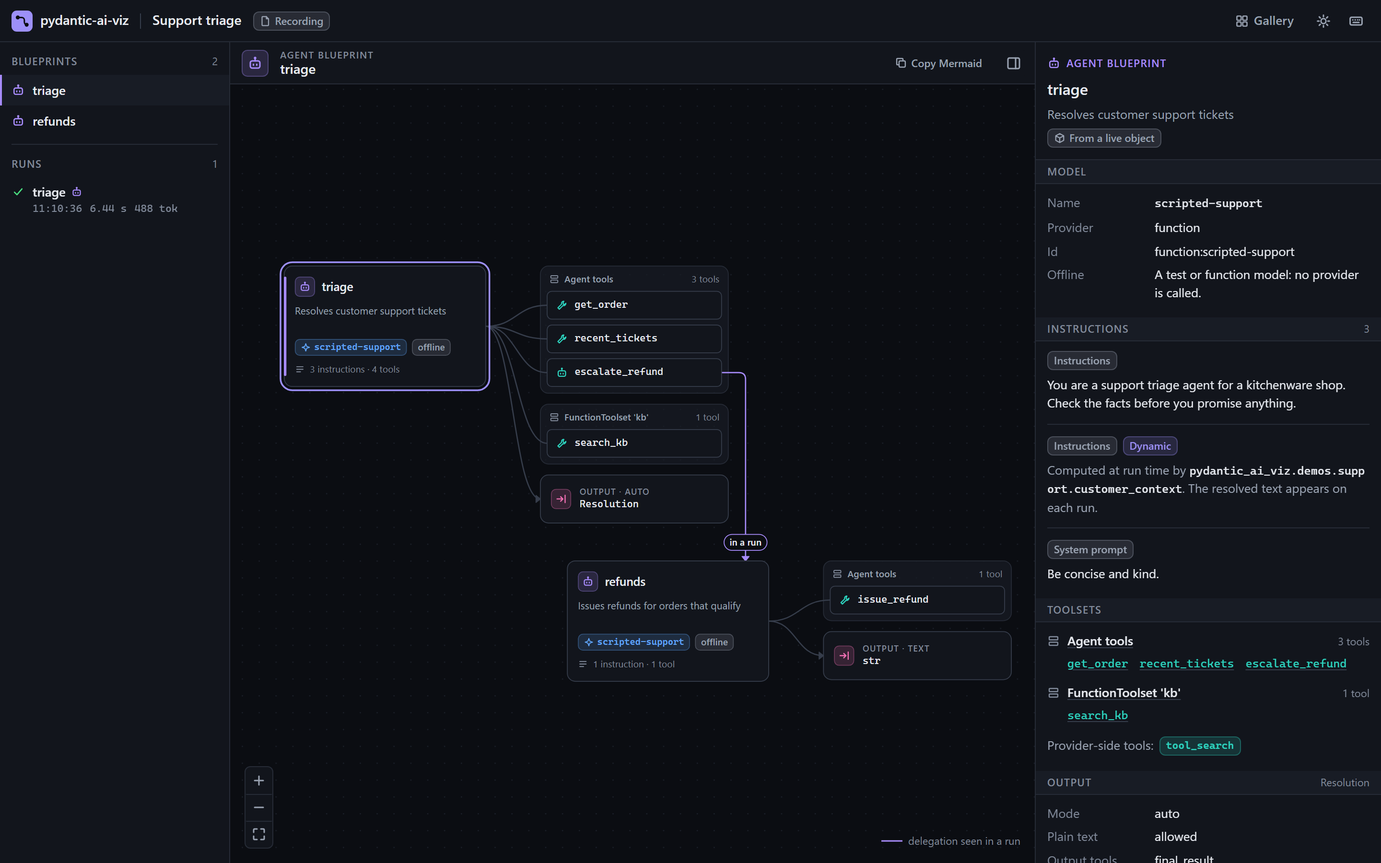
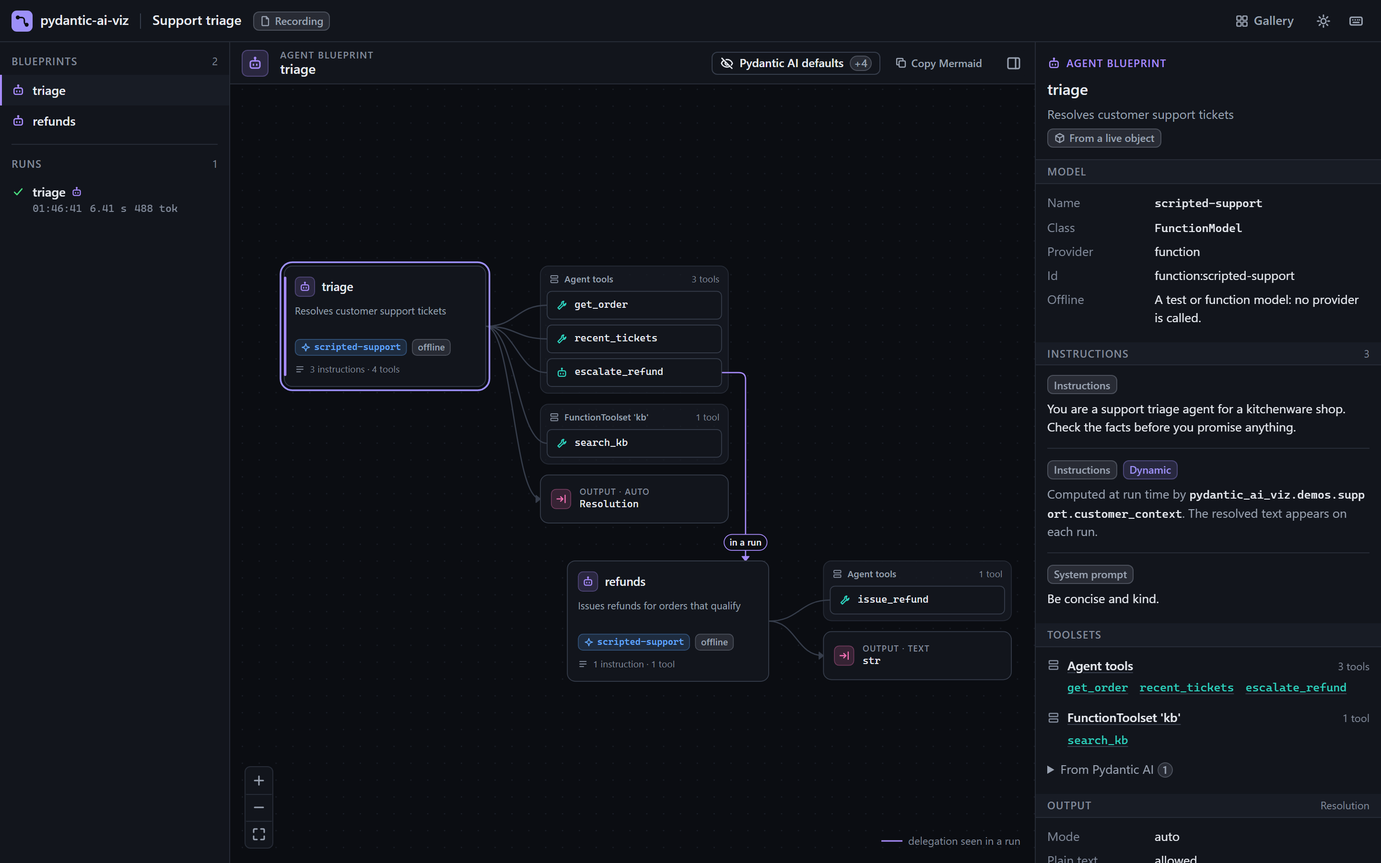
docs: document skills, the defaults toggle and refresh screenshots

diff --git a/docs/reference/wire-format.md b/docs/reference/wire-format.md
@@ -118,6 +118,7 @@ type AgentBlueprint = {
     tool_retries: number | null;
     output_retries: number | null;
     tool_timeout: number | null;
+    defaults: string[];        // of end_strategy, tool_retries, output_retries and tool_timeout: those whose value is what an Agent() has by default (live only; [] from source)
     expressions: { [k: string]: string };  // settings computed at run time: name -> source text
   };
   delegates: { tool_name: string; agent_id: string; evidence: Provenance }[];
@@ -144,6 +145,18 @@ type Capability = {
   expressions: { [k: string]: string }; // parameters the source computes at run time: name -> source text (static analysis only)
   toolsets: string[];          // Toolset.id of the toolsets it gives the agent
   native_tools: string[];      // provider-side tool kinds it gives the agent, for example "web_search"
+  capability_id: string | null; // the id Pydantic AI knows it by (what load_capability takes); from source only a literal id=
+  stack: string | null;        // the harness stack ("Coder", "Researcher") that put it on the agent; live only, null from source
+  skills: SkillInfo[];         // the skills of a harness Skills capability, in catalog order; [] for every other capability
+};
+
+type SkillInfo = {
+  name: string;                // the name of its frontmatter, or its directory's name: the id load_capability takes
+  description: string;
+  when_to_use: string | null;
+  model_invocable: boolean;    // false with `disable-model-invocation: true`: left out of the model's catalog
+  path: string;                // its SKILL.md, forward slashes, relative to the workspace it was read from (live) or the analysed root (source); never absolute
+  body: string;                // the Markdown after the frontmatter, as written (rule 5 applies)
 };
 
 type Instruction = {
@@ -226,15 +239,26 @@ A capability's `category` is the group it is listed in by the [Pydantic AI capab
 
 - **Matching** is by package (`pydantic_ai` or `pydantic_ai_harness`) together with the class name. The harness is never imported, so a project class that happens to be called `Memory` or `Shell` is not taken for the harness one. A subclass takes the category of its Pydantic AI or harness base. A class of either package that is not listed is `"custom"`.
 - **`package`** names the package of the class itself, so an unlisted harness class is `"custom"` with package `"pydantic_ai_harness"`, and a project subclass of `MCP` has the category of `MCP` and no package.
-- **`details`** holds values only: strings, numbers, booleans, lists of those, or objects of those. A parameter left at its default, a `null` or empty value, `id` and `defer_loading` are left out. A parameter whose name contains `secret`, `passw`, `credential`, `cookie` or `bearer`, ends in `token`, `auth`, `authorization`, `header`, `headers` or `apikey`, ends in `key` as a word (`api_key`), or has `env`, `header`, `headers` or `authorization` as a word, is never written; `max_tokens`, `authority` and `environment` are. A positional argument of a class whose parameter names are not known is not written either, and is named in `warnings`. A URL is written without user info, query and fragment.
+- **`details`** holds values only: strings, numbers, booleans, lists of those, or objects of those. A live capability of Pydantic AI or the harness lists no value the class fills in itself, such as the `denied_commands` of a `Shell()`; a parameter the class requires is always listed. A plain `Capability(instructions=...)` shows them as a string, or a list when it has several, with a function by its qualified name. A workspace given to a capability is shown as its class name, never a path. strings, numbers, booleans, lists of those, or objects of those. A parameter left at its default, a `null` or empty value, `id` and `defer_loading` are left out. A parameter whose name contains `secret`, `passw`, `credential`, `cookie` or `bearer`, ends in `token`, `auth`, `authorization`, `header`, `headers` or `apikey`, ends in `key` as a word (`api_key`), or has `env`, `header`, `headers` or `authorization` as a word, is never written; `max_tokens`, `authority` and `environment` are. A positional argument of a class whose parameter names are not known is not written either, and is named in `warnings`. A URL is written without user info, query and fragment.
 - **`expressions`** is filled by static analysis only: an argument that is not a literal, as source text on one line cut at 200 characters.
 - **`toolsets`** holds ids of the blueprint's own `toolsets`. **`native_tools`** holds kinds.
 - **`deferred`** is `true` for `defer_loading=True`. From source, only a literal `True` counts; any other value is in `expressions`.
 - **The two ways of reading differ.**
-    - A live agent shows a harness stack such as `Coder` or `Researcher` as one capability of category `"harness"` (with no details, toolsets or native tools) next to the capabilities it is made of, because Pydantic AI merges a combined capability into the agent's own and the stack is found by a marker it leaves behind. The stack's helper capabilities are left out: its private classes, and the plain `Capability` that holds a `Researcher`'s instructions. A `Researcher` with an overflow store of its own leaves no marker, so it is not listed.
+    - A live agent shows a harness stack such as `Coder` or `Researcher` as one capability of category `"harness"` (with no details or native tools; its toolsets are those of its helpers, such as the empty `researcher_instructions` one) next to the capabilities it is made of, because Pydantic AI merges a combined capability into the agent's own and the stack is found by a marker it leaves behind. The stack's helper capabilities are left out: its private classes, and the plain `Capability` that holds a `Researcher`'s instructions. A `Researcher` with an overflow store of its own leaves no marker, so it is not listed.
     - Source code shows `CombinedCapability([...])` as the capabilities in it, to a depth of four, except one given a literal `defer_loading=True`, which stays one deferred capability, as on a live agent. One given a computed `defer_loading=` stays one capability too, not deferred, with the expression in `expressions`: the agent keeps it whole when the value is true. A capability kept whole lists what it holds by class name in `details.capabilities`, as a live agent does, never as source text, and has the toolsets and native tools of what it holds. A list the source computes stays one capability, with a warning.
-    - From source, `WebSearch` and `WebFetch` given `local=` give the toolset of that function or, for `local=True`, of the tool of the installed Pydantic AI. A harness capability that gives a toolset (`FileSystem`, `Shell`, `Memory`, `Planning`, `ToolOutputLimits`, `PydanticAIDocs`, `PruneToolResults`, `CapabilityCreation`) gives one `opaque` toolset with no tools, since the tools depend on its arguments; a live agent lists them. A `FileSystem` given a literal `read_only=True` has the `FilteredToolset` wrapper a live one has. `X.from_spec(...)` reads as `X(...)`.
+    - From source, `WebSearch` and `WebFetch` given `local=` give the toolset of that function or, for `local=True`, of the tool of the installed Pydantic AI. A harness capability that gives a toolset (`FileSystem`, `Shell`, `Memory`, `Planning`, `ToolOutputLimits`, `PydanticAIDocs`, `PruneToolResults`, `CapabilityCreation`) gives one `opaque` toolset with no tools, since the tools depend on its arguments; a live agent lists them. So do `SubAgents` given `agents=` or `agent_folders=` (toolset id `sub_agents`, or its `id=`), `AskUser` (`ask_user`, or its `id=`), `Advisor` (`advisor`, with a `PreparedToolset` wrapper) and `Skills` given a literal `read_files=True` (`skills`). A `FileSystem` given a literal `read_only=True` has the `FilteredToolset` wrapper a live one has. `X.from_spec(...)` reads as `X(...)`.
     - A live `Hooks` shows no details.
+    - The arguments of a harness capability given by position are named from the harness's own signatures when the class is known to come from `pydantic_ai_harness`: `Skills(directories)`, `SubAgents(agents, models, agent_folders)`, `Advisor(model)`, `CapabilityCreation(directory, guidance)`, `RepoContext(workspace_dir, home_dir, filenames)`, `Peers(network)` and `Memory(store, store_resolver, agent_name, namespace)`. A value that cannot be shown, such as a store object, is still left out.
+    - From source, two capabilities of one class that Pydantic AI would merge into one are shown as one: those with the same literal `id=`, or, with no `id=`, a Pydantic AI class whose installed source declares a literal default `id` (`WebSearch()` twice). They are merged by Pydantic AI's rules: a value only one states survives, lists and dicts are joined with the later winning, any other value is the later one, and the capability keeps the position of its last occurrence. A harness class with no literal `id=` is not merged, because its default id is only in harness source, which is never opened.
+    - `WebSearch` given `allowed_domains`, `blocked_domains` or `max_uses`, or `WebFetch` given `max_uses`, with a value other than a literal `None`, can only run as the provider's own tool, so it gives no local toolset, as on a live agent.
+- **`capability_id`** is the id Pydantic AI knows the capability by: the `id` of a live capability when it is a string, a literal `id=` from source. A call of `load_capability` names a capability or a skill by it.
+- **`stack`** is `"Coder"` or `"Researcher"` for a live capability that stack put on the agent, and `null` otherwise and always from source (a stack is not opened there). After the stack's marker, each public capability whose class is one the stack is known to add (`Coder`: `FileSystem`, `Shell`, `RepoContext`, `SubAgents`, `ClearToolResults`, `RepairToolArguments`; `Researcher`: `WebSearch`, `WebFetch`, `SubAgents`, `ToolOutputLimits`) is a member, each class at most once and in that order; the first one that is not ends the stack, so a `Thinking()` listed after `Researcher()` is the author's, and so is a second `Shell` after `Coder()` or a `SubAgents` that Pydantic AI merged with the stack's own and moved to the author's place.
+- **`skills`** is the catalog of a harness `Skills` capability: its name, `when_to_use`, whether the model may load it, its `SKILL.md` and its body. The body is authored text, like a static instruction, and is not redacted when `include_content` is `false`. It does not include the skill directory the harness adds when it renders a skill. Every path is relative; a warning never holds an absolute path.
+    - **Live:** the catalog is read with `Skills.load()`, which reads the files and runs a scanner configured on `Skills`, but starts no model and writes nothing. Only host workspaces are read (`LocalWorkspaceBackend`, `WindowsWorkspaceBackend`): the one given to `Skills` as `workspace=`, or else that of the agent's own `LocalWorkspace` or `WindowsWorkspace`. A sandbox or other backend is not read, and a `Skills` with no workspace known before the run is not read either; each is named in `warnings`.
+    - **From source:** `SKILL.md` files are read under the `directories` of a literal `Skills(...)` (a string or a list of strings; the first argument or `directories=`), with a literal `include=` and `exclude=` applied. A relative directory is resolved against the root of a literal `workspace=LocalWorkspaceBackend('dir')` or `WindowsWorkspaceBackend('dir')`, or of the agent's `LocalWorkspace` or `WindowsWorkspace` given a literal `working_dir`, itself relative to the folder analysed. When the workspace is decided when the code runs, the folder of the source file is tried first and then the analysed folder, with one warning: "`Skills` reads `_skills` from a workspace decided when the code runs; the skills shown are those in `_skills`". Only files inside the analysed folder are read, at most 64 skills per capability, and the size limit of one file applies. Computed `directories` stay in `expressions`, with a warning.
+    - **Skipped skills** are warnings: "skill `<path>` was left out: <reason>" (its `SKILL.md` could not be read, another skill has its name, the library path is not a library, or an artifact scan flagged it); a library that is not found gives "skill library `<dir>` was not found in the analysed files, so its skills are not shown", and a `SKILL.md` over the analysis's file size limit gives "skill `<path>` is not shown: its SKILL.md is larger than the <n> byte limit of the analysis; a run still offers it". A frontmatter that YAML would not read (an unquoted `: ` in a value, a value that opens a flow collection) is one that could not be read, as for the harness; a ` #` comment after a value is not part of it. A literal `scanner=` gives "skills are shown unscanned; a run scans them first".
+- **Delegates of `SubAgents`.** A harness `SubAgents` capability gives a delegate for each `SubAgent` it lists whose agent can be found: its `tool_name` (`delegate_task` by default) as the edge's `tool_name`, with evidence `"object"` for a live agent and `"code"` from source. Since its toolset is opaque and lists no tool, the edge starts at the agent's card. `include_self` draws nothing. Its `details` show each entry as `{agent, name, description, models}`. `Advisor` and `Peers` have no edge: one holds a model, the other resolves its network when it runs.
+- **What is not read.** The per-run content of other capabilities: the `AGENTS.md` and `CLAUDE.md` that `RepoContext` reads (it also reads the home directory), the provider-side tools of `MCP(native=True)`, which only the provider knows, and a store `Memory` takes from `store_resolver`, which needs a run.
 - **Native tools.** An agent's `native_tools` holds kinds only, as a capability's does; a native tool of a capability loaded on demand is listed by its kind too.
 
 ### Provenance, locations and expressions { #provenance }
@@ -553,5 +577,7 @@ The wire format is versioned separately from the package. Within `pviz: 1`:
 - nothing is removed or renamed, and no field changes its meaning.
 
 A change that breaks those rules gets a new `pviz` number and is called out in the [changelog](../changelog.md).
+
+The capability fields `capability_id`, `stack` and `skills` (with the `SkillInfo` type) and `settings.defaults` were added within `pviz` 1. The viewer opens a recording without them and fills `null`, `null`, `[]` and `[]`. The Python models and the JSON Schema require them.
 
 Recordings made by 0.1.0 have capabilities with only `name` and `builtin`. The viewer opens them, treating the missing fields as category `"custom"` and empty. The Python models and the JSON Schema describe what this release writes, so they require the new fields and do not accept those capabilities.

diff --git a/docs/guides/visualize-an-agent.md b/docs/guides/visualize-an-agent.md
@@ -109,12 +109,30 @@ Delegation edges
 
 Capabilities
 
-:   An agent's capabilities are drawn in a box under its card, one row per capability, in the order of the [Pydantic AI capabilities docs](https://pydantic.dev/docs/ai/capabilities/overview/), with a short category label, an "on demand" mark for one the model loads when needed and a marker for one that gives the model a provider-side tool. A dashed line runs from a capability to each toolset it gives that is drawn. Capabilities that Pydantic AI adds to every agent are left off unless the agent configures them. Select a row to open the capability in the inspector.
+:   An agent's capabilities are drawn in a box under its card, one row per capability, in the order of the [Pydantic AI capabilities docs](https://pydantic.dev/docs/ai/capabilities/overview/), with a short category label, an "on demand" mark for one the model loads when needed and a marker for one that gives the model a provider-side tool. A dashed line runs from a capability to each toolset it gives that is drawn. Select a row to open the capability in the inspector. Under a `Skills` capability, one indented row per skill (up to eight; the capability's row says "N skills") shows its name and a faint "hidden" tag for a skill the model may not load. In a run, a skill row shows whether it has been loaded.
 
-    ![The briefing agent of the capabilities demo: its capabilities in a box under the agent card, dashed lines to the toolsets they give, and the inspector on WebSearch](../assets/screenshots/capabilities-dark.png#only-dark)
-    ![The briefing agent of the capabilities demo: its capabilities in a box under the agent card, dashed lines to the toolsets they give, and the inspector on WebSearch](../assets/screenshots/capabilities-light.png#only-light)
+    What Pydantic AI adds on its own is collapsed; see [Pydantic AI defaults](#pydantic-ai-defaults) below.
 
-The inspector on the right shows the details for whatever is selected, in sections one under the other. For an agent: warnings, model, instructions, toolsets, output, delegates, settings and capabilities. Capabilities are grouped as in the [Pydantic AI capabilities docs](https://pydantic.dev/docs/ai/capabilities/overview/): harnesses, execution environments, tools, integrations, web and research, reasoning and delegation, context management, knowledge and memory, control and safety, self-extension, execution runtime and loop customization, with anything else under "Custom". Each capability is marked Core or Harness by the package it comes from (a harness `Coder` or `Researcher` on a live agent is listed as itself), and "on demand" when the model loads it when needed. It shows what it was given, the toolsets it gives the agent (each can be picked, and a capability can be picked from the agent's panel and from a toolset's) and its provider-side tools. A toolset's panel says which capability gave it. Capabilities that Pydantic AI adds to every agent stay folded under a "built-in" disclosure, unless the agent configures one (`ToolSearch(max_results=3)`), which is then listed in its group. `CombinedCapability([...])` is shown as the capabilities in it. A blueprint read from source also says where each part is defined, as `file.py:line`, with a button that copies it.
+    ![The briefing agent of the capabilities demo: its capabilities in a box under the agent card, dashed lines to the toolsets they give, and the inspector on the house-style skill](../assets/screenshots/capabilities-dark.png#only-dark)
+    ![The briefing agent of the capabilities demo: its capabilities in a box under the agent card, dashed lines to the toolsets they give, and the inspector on the house-style skill](../assets/screenshots/capabilities-light.png#only-light)
+
+The inspector on the right shows the details for whatever is selected, in sections one under the other. For an agent: warnings, model, instructions, toolsets, output, delegates, settings and capabilities. Capabilities are grouped as in the [Pydantic AI capabilities docs](https://pydantic.dev/docs/ai/capabilities/overview/): harnesses, execution environments, tools, integrations, web and research, reasoning and delegation, context management, knowledge and memory, control and safety, self-extension, execution runtime and loop customization, with anything else under "Custom". Each capability is marked Core or Harness by the package it comes from (a harness `Coder` or `Researcher` on a live agent is listed as itself), and "on demand" when the model loads it when needed. It shows what it was given, the toolsets it gives the agent (each can be picked, and a capability can be picked from the agent's panel and from a toolset's) and its provider-side tools. A toolset's panel says which capability gave it. Capabilities that Pydantic AI adds to every agent stay folded under a "From Pydantic AI" disclosure, unless the agent configures one (`ToolSearch(max_results=3)`), which is then listed in its group. `CombinedCapability([...])` is shown as the capabilities in it. A blueprint read from source also says where each part is defined, as `file.py:line`, with a button that copies it.
+
+Skills
+
+:   Pick a skill row, or a skill in the panel of its `Skills` capability or of the agent, for its panel: when to use it, its instructions (the Markdown of its `SKILL.md`, which the model gets when it loads the skill, with a copy button), its path and the id `load_capability` takes. The skill is read from the live `Skills` capability or, from source, from the `SKILL.md` files in the folder read. A skill's text is part of the blueprint, so it is shown even when content capture is off. In a run, a `load_capability` call outlines the skill it loaded, its panel names it, and the `load_capability` tool's own panel lists what it can load.
+
+### Pydantic AI defaults { #pydantic-ai-defaults }
+
+The agent view and the run view show what you wrote. What Pydantic AI or the harness adds on its own is collapsed into counts. The "Pydantic AI defaults" button in the bar above the canvas, with a count such as "+12", shows it again; it appears only when the agent has any. It is a toggle (`aria-pressed`), hidden by default, and the choice is remembered in this browser, not in the page's address.
+
+A default is:
+
+- a capability Pydantic AI adds to every agent and you did not configure (`ToolSearch(max_results=3)` is yours), or one a `Coder` or `Researcher` added;
+- a tool or toolset the library defines, such as the tools of `Memory` and `Planning` or `load_capability`, when the capability that gives it is yours and the toolset holds no function of yours (`WebSearch(local=search_archive)` is shown);
+- a setting whose value is what a plain `Agent()` has (`end_strategy`, `tool_retries`, `output_retries`, `tool_timeout`), a blueprint from a live agent only.
+
+When hidden, a capability row that gives hidden tools says "4 tools" (a stack such as `Coder` says "6 inside"), and in a run it shows the calls and state of those tools, so a call to a hidden `Memory` tool lights the `Memory` row. When shown, default parts have a dashed border and the word "default", and a stack's members say "via Coder". In the inspector, library toolsets sit under "From Pydantic AI" and default settings under "Pydantic AI defaults". The Mermaid export always lists every tool.
 
 On a blueprint, what you pick is kept in the page's address, so a link or a reload opens on the same agent, tool, toolset or graph node.
 

diff --git a/CHANGELOG.md b/CHANGELOG.md
@@ -18,8 +18,21 @@ The wire format has its own version number (`pviz`, currently `1`), recorded in 
 - `BenchmarkInstructions`, `BaseDurabilityCapability` and the deprecated harness aliases `InputGuard`, `OutputGuard` and `BubblewrapSandbox` are categorised.
 - Wire format: `CapabilityInfo` gains `category`, `package`, `deferred`, `details`, `expressions`, `toolsets` and `native_tools`. The change is additive within `pviz` 1. The viewer still opens recordings made by 0.1.0, treating their capabilities as custom with nothing more known; the Python models and the JSON Schema require the new fields.
 
+- Skills are inspectable. Every skill of a harness `Skills` capability shows by name with its description, when to use it, whether the model may load it, its `SKILL.md` and its body, from a live agent (read with `Skills.load()` from host workspaces, without running a model), from source (`SKILL.md` files under literal `directories` inside the analysed folder) and in runs, where a `load_capability` call is linked to the skill or capability it loads. Skills are rows under the `Skills` capability on the canvas and have their own panel. A GitHub target keeps its `SKILL.md` files.
+- A "Pydantic AI defaults" toggle in the agent and run views. The default view shows what you wrote; the capabilities, tools, toolsets and settings Pydantic AI or the harness adds on its own are collapsed into counts, rolled up on the capability rows and lit by runs, and shown again by the toggle. The choice is remembered in the browser.
+- `SubAgents` of `pydantic-ai-harness` draws delegation edges, from live agents and from source.
+- Static analysis gives toolsets to `SubAgents`, `AskUser`, `Advisor` and `Skills(read_files=True)`, and reads the positional arguments of harness capabilities (`Skills`, `SubAgents`, `Advisor`, `CapabilityCreation`, `RepoContext`, `Peers`, `Memory`).
+- The capabilities demo bundles a second skill, `fact-check`, which its run does not load.
+- Wire format: `CapabilityInfo` gains `capability_id`, `stack` and `skills`, with the new `SkillInfo` type, and `AgentSettings` gains `defaults`. The change is additive within `pviz` 1. The viewer opens older recordings with `null`, `null`, `[]` and `[]`; the Python models and the JSON Schema require the fields.
+
 ### Fixed
 
+- The details of a live capability no longer list values the class fills in itself (the `denied_commands` of a `Shell()`, the method of an `Advisor`), and a plain `Capability(instructions=...)` shows its instructions.
+- Harness capabilities given arguments by position (`Skills("skills")`) are read from source instead of dropped.
+- The fixture generator's `Skills` is no longer marked deferred, and its `Memory` and `Planning` toolsets have no invented expression, as in real output.
+- `WebSearch` and `WebFetch` given native-only constraints (`allowed_domains`, `blocked_domains`, `max_uses`) no longer show a local toolset from source, as on a live agent.
+- Capabilities that Pydantic AI merges into one (the same literal `id=`, or a core class with a default id, such as two `WebSearch()`) are one capability from source, as on a live agent.
+- A delegation arc back to an agent above its own card is drawn behind the sub-agent card and its capabilities box instead of through them.
 - A live agent's `native_tools` no longer lists the function `CombinedCapability` puts in place of the native tool of a capability loaded on demand; it lists the tool's kind.
 - Static analysis no longer lists `pydantic_ai_slim` among the libraries it knows by name; it is not importable.
 

diff --git a/docs/demos.md b/docs/demos.md
@@ -106,7 +106,7 @@ pydantic-ai-viz demo capabilities   # needs: pip install 'pydantic-ai-viz[demos]
 
 [Open the recording in the hosted demo](https://lowweilin.github.io/pydantic-ai-viz/demo/?src=recordings/capabilities.pviz.jsonl)
 
-A `briefing` agent is asked to brief a reader on the Apollo 13 accident. It thinks, writes a plan, searches and reads a small archive bundled with the demo, loads a skill, saves a note to memory and answers. All of it is given to the agent as `capabilities=`:
+A `briefing` agent is asked to brief a reader on the Apollo 13 accident. It thinks, writes a plan, searches and reads a small archive bundled with the demo, loads one of two skills, saves a note to memory and answers. All of it is given to the agent as `capabilities=`:
 
 | Capability | Category | What it gives |
 |---|---|---|
@@ -114,7 +114,7 @@ A `briefing` agent is asked to brief a reader on the Apollo 13 accident. It thin
 | `Planning()` | Reasoning, planning & delegation | `write_plan` and the other planning tools |
 | `WebSearch`, `WebFetch` | Web & research | `search_archive` and `fetch_page`, local functions that read the bundled archive |
 | `MCP(url=...)` | Tools & native abilities | A provider-side MCP tool; the address is illustrative and never contacted |
-| `Skills` | Knowledge & memory | `load_capability` and the bundled `house-style` skill |
+| `Skills` | Knowledge & memory | `load_capability` and two bundled skills, `house-style` and `fact-check` |
 | `Memory` | Knowledge & memory | `write_memory` and the other memory tools, over a store that lives in memory |
 | `InputGuardrail` | Control & safety | A check on the prompt |
 | `ModelFallback` | Loop customization | A second scripted model |
@@ -123,10 +123,11 @@ What to watch for:
 
 1. **Capabilities on the canvas.** Under the agent card is a "Capabilities" box with one row per capability, in the docs' category order. Select a row for its panel.
 2. **Capabilities linked to toolsets.** A dashed line runs from a capability to the toolset it gives, for example from `WebSearch` to the `web_search` toolset. Select the toolset to see which capability gave it.
-3. **Capabilities that Pydantic AI adds to every agent** (`ToolSearch` and others) are folded away in the inspector and left off the canvas.
-4. **The same agent from source.** The [source view](https://lowweilin.github.io/pydantic-ai-viz/demo/?src=recordings/source.pviz.jsonl) shows the same capabilities read from the code. Its `Memory` and `Planning` toolsets are marked "decided at run time" and list no tools; a run lists them.
+3. **Skills you can inspect.** Two rows sit under `Skills`, one per skill. Select one for its description, when to use it and its instructions. The run loads `house-style`, not `fact-check`, so a run shows the difference between loaded and not loaded.
+4. **Pydantic AI defaults.** `ToolSearch`, the tools of `Memory` and `Planning`, the `load_capability` tool the run calls and the other parts Pydantic AI adds are collapsed into a "Pydantic AI defaults +13" button above the canvas. Press it to see them.
+5. **The same agent from source.** The [source view](https://lowweilin.github.io/pydantic-ai-viz/demo/?src=recordings/source.pviz.jsonl) shows the same capabilities read from the code. Its `Memory` and `Planning` toolsets are marked "decided at run time" and list no tools; a run lists them.
 
-The demo reads a skill bundled with the package and never writes one.
+The demo reads the skills bundled with the package and never writes one.
 
 ## Options
 

diff --git a/docs/guides/privacy.md b/docs/guides/privacy.md
@@ -28,7 +28,7 @@ There is no telemetry, no account and no cloud service. Spans go to a private Op
 
 A blueprint-only export (`view ... --export`) holds no run data, but read it before you share it if your prompts are confidential.
 
-A GitHub target (`gh:owner/repo`, or a `https://github.com/...` URL) is the one case where `view` uses the network: `git` fetches that commit's `.py` files from GitHub, using your git configuration, and keeps them in a cache directory (`PYDANTIC_AI_VIZ_CACHE_DIR`, or your user cache directory). Nothing is sent but the request for the repository, and a commit already in the cache is read without the network.
+A GitHub target (`gh:owner/repo`, or a `https://github.com/...` URL) is the one case where `view` uses the network: `git` fetches that commit's `.py` files, project files and `SKILL.md` files from GitHub, using your git configuration, and keeps them in a cache directory (`PYDANTIC_AI_VIZ_CACHE_DIR`, or your user cache directory). Nothing is sent but the request for the repository, and a commit already in the cache is read without the network.
 
 ## Capture without content
 
@@ -58,7 +58,7 @@ This is the setting to use when you want to share a recording of a run against r
 Keep in mind:
 
 - **It is decided at capture time.** The content is never recorded, so it cannot leak later. For the same reason, a recording made with content cannot be redacted afterwards. Capture the run again.
-- **Blueprints are not redacted.** Static instructions, system prompts, tool descriptions and schemas are part of the blueprint and are still shown. They describe your code, not your data, but check them before sharing.
+- **Blueprints are not redacted.** Static instructions, system prompts, tool descriptions and schemas are part of the blueprint and are still shown. So are the skills of a `Skills` capability: each skill's description, when to use it and the body of its `SKILL.md`, whatever `include_content` is. Skill paths are relative to the workspace or the folder read, never absolute. They describe your code, not your data, but check them before sharing.
 - **Token streaming is off.** A token is content, so `stream=True` (or `--stream`) has no effect when content capture is off. See [Token streaming](token-streaming.md#streaming-and-content-capture).
 - **With `instrument=False` your own settings apply.** If you instrument Pydantic AI yourself or through Logfire, the `include_content` of that configuration decides what the spans contain. See [Use with Logfire](logfire.md).
 

diff --git a/docs/concepts/how-view-works.md b/docs/concepts/how-view-works.md
@@ -4,6 +4,8 @@
 
 You do not need this page to use `view`. It is here for when you want to know what was read, why a value shows up as code instead of a value, or whether it is safe to point `view` at a repository you have not reviewed.
 
+Besides `.py` files, `view` reads the `SKILL.md` files of the skill libraries a harness `Skills` capability names. They are read as text too, never imported or run, and only inside the folder being analysed; a GitHub target keeps its `SKILL.md` files for the same reason.
+
 Three consequences are worth knowing first:
 
 - **Nothing in the code runs.** Not the top-level code, not a decorator, not a default argument, not an `import`. Pointing `view` at a local directory is as safe as opening it in an editor. (Fetching a GitHub target runs `git`, with your git configuration.)
@@ -191,6 +193,8 @@ The analyser is written to be pointed at code nobody has reviewed, so all of its
 | Time for fetching a GitHub repository | 300 seconds | `view` stops with an error |
 
 All four can be changed through [`Limits`](../reference/python-api.md#limits) when you call `analyze`. Every other walk is bounded too: following names, opening nested types, expanding lists. Cyclic imports, aliases that refer to themselves and models that contain themselves end in a warning, and a file nested too deeply for Python's parser is skipped. None of these is ever a crash.
+
+A `Skills` capability shows at most 64 skills, with a warning for the rest, and a `SKILL.md` over the file-size limit is left out. What a capability reads only when it runs is not shown from source or from an object: the `AGENTS.md` and `CLAUDE.md` of `RepoContext`, the provider-side tools of `MCP(native=True)` and the store of a `Memory(store_resolver=...)`. `Advisor` and `Peers` draw no delegation edge, since one holds a model and the other resolves its network when it runs. Keyword arguments are not checked against the class: a keyword the class does not take, such as `SpendLimits(max_cost_usd=...)`, is shown as written, though the code would fail when it is imported.
 
 ## When to use `--import`
 

diff --git a/docs/concepts/how-capture-works.md b/docs/concepts/how-capture-works.md
@@ -127,6 +127,10 @@ That is what the sidebar and the Usage sections of the inspector show. The usage
 
 `pydantic-graph` does not emit plain OpenTelemetry spans; it reports through Logfire only. So for graphs, pydantic-ai-viz produces the spans itself. [`run_graph`](../guides/graphs.md) drives the graph with its public `graph.iter(...)` API, opens a `graph_run` span around the whole execution and a `graph_node` span around each task, on the session's own tracer provider. From there on they travel the same pipeline as agent spans, and agent runs started inside a step nest under it as ordinary child spans.
 
+## Skills are read, not run
+
+A harness `Skills` capability reads its libraries at the start of every run, so the skills never exist on the agent object. For a blueprint, pydantic-ai-viz calls the capability's public `Skills.load()` on a host workspace, which reads the `SKILL.md` files without starting a model and writes nothing. In a run, the call of `load_capability` that loads a skill is linked to it: the viewer matches the `id` argument to the skill (or to a capability loaded on demand) by name. With `include_content=false` the arguments are not recorded, so nothing is linked.
+
 ## Token streaming takes a side channel
 
 Spans never contain single tokens. With `stream=True`, an event listener registered through `agent.on_event(...)` receives Pydantic AI's part-start and part-delta events and appends `stream.delta` events to the log. Each delta is tied to the model request that is currently open for that agent run, so the text lands on the right span. The price of this side channel is described in [Token streaming](../guides/token-streaming.md).

diff --git a/docs/concepts/blueprint-vs-run.md b/docs/concepts/blueprint-vs-run.md
@@ -30,7 +30,9 @@ The same three values appear as a blueprint's `source`, a tool's `origin` and a 
 
 ### Read from the object
 
-When you pass an agent to `serve`, `record` or `blueprint` (or use `view --import`), the live object is introspected. No agent is run. The result has `source: "object"` and is as complete as introspection allows: every tool with its schemas, static instructions, the names of dynamic instruction functions, output type and schema, retry limits, capabilities.
+When you pass an agent to `serve`, `record` or `blueprint` (or use `view --import`), the live object is introspected. No agent is run. The result has `source: "object"` and is as complete as introspection allows: every tool with its schemas, static instructions, the names of dynamic instruction functions, output type and schema, retry limits, capabilities. A harness `Skills` capability lists its skills, read with `Skills.load()` from a host workspace without running a model.
+
+In a run, a call of `load_capability` is shown with the skill or capability it loaded.
 
 ### Observed: pieced together from runs
 
